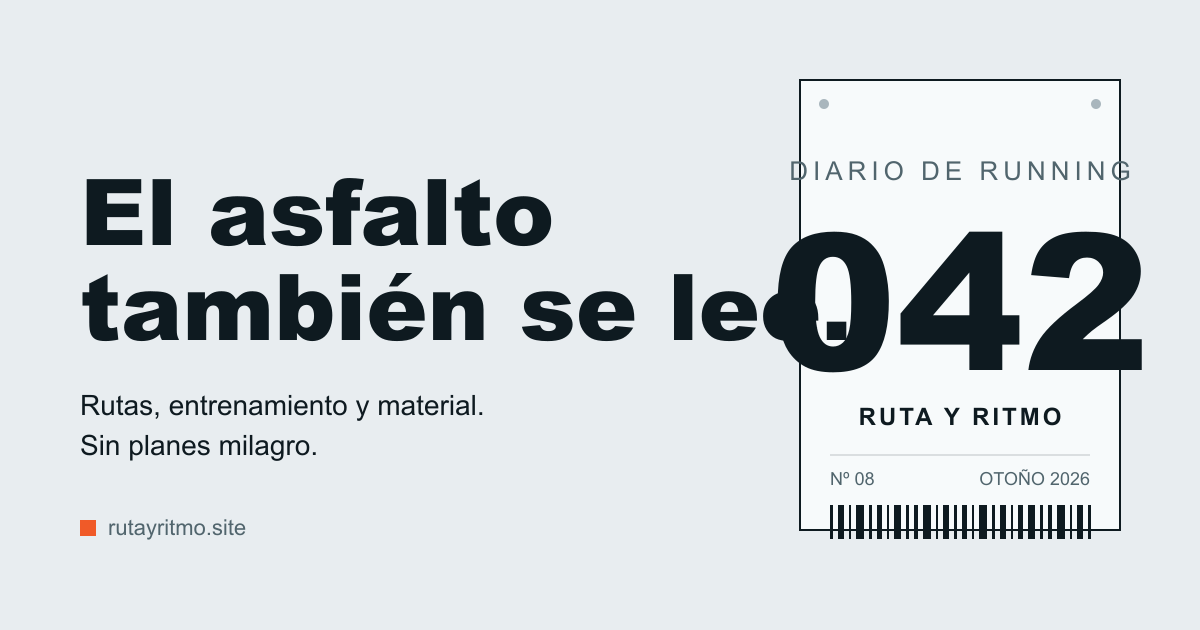
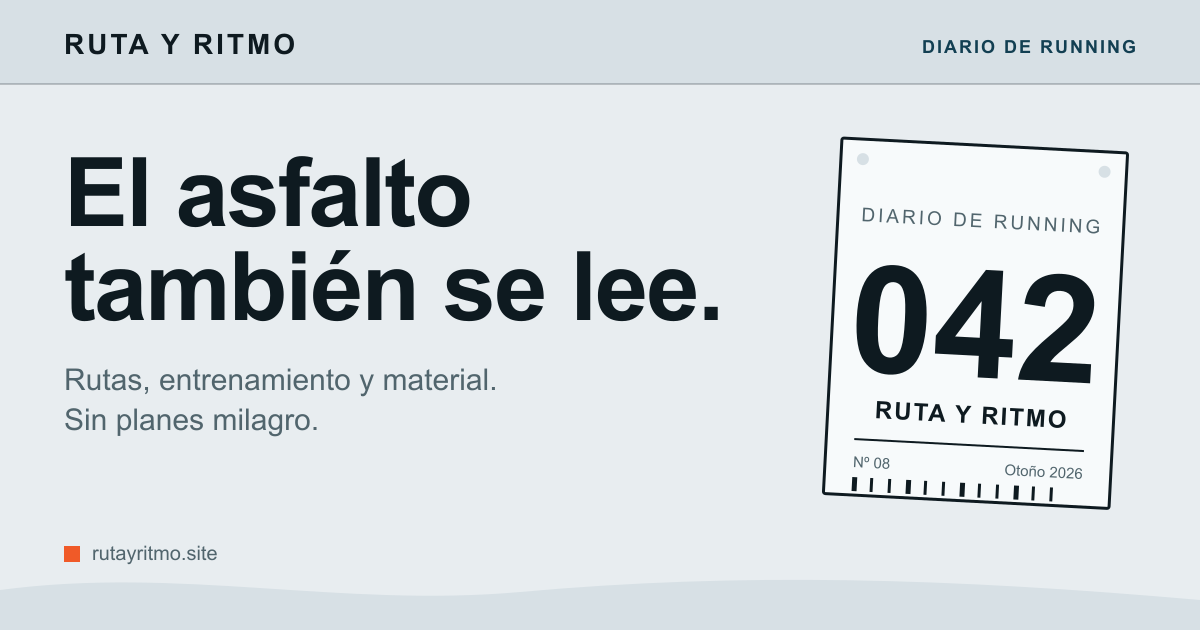
Fix bilingual 404, social cards and inline link spacing

diff --git a/src/pages/en/rss.xml.js b/src/pages/en/rss.xml.js
@@ -1,5 +1,6 @@
 import rss from '@astrojs/rss';
 import { getCollection } from 'astro:content';
+import { getCategoria } from '../../data/categorias';
 import { SITE } from '../../data/site';
 import { t } from '../../i18n/ui';
 
@@ -13,21 +14,21 @@ export async function GET(context) {
       description: entry.data.description,
       pubDate: entry.data.publishedAt,
       link: `/en/diario/${entry.id}/`,
-      categories: [entry.data.category],
+      categories: [getCategoria(entry.data.category, 'en').name],
     })),
     ...rutas.map((entry) => ({
       title: entry.data.title,
       description: entry.data.description,
       pubDate: entry.data.publishedAt,
       link: `/en/rutas/${entry.id}/`,
-      categories: ['rutas'],
+      categories: ['Routes'],
     })),
   ].sort((a, b) => b.pubDate.getTime() - a.pubDate.getTime());
 
   return rss({
     title: 'Ruta y Ritmo — Running journal',
     description: t('en', 'homeLede'),
-    site: context.site ?? SITE.url,
+    site: new URL('/en/', context.site ?? SITE.url).toString(),
     items,
     customData: '<language>en-us</language>',
   });

diff --git a/src/data/site.ts b/src/data/site.ts
@@ -1,8 +1,11 @@
 export const SITE = {
   name: 'Ruta y Ritmo',
   title: 'Ruta y Ritmo — Diario de running',
+  titleEn: 'Ruta y Ritmo — Running journal',
   description:
     'Rutas, entrenamiento y material para corredores populares. Ideas prácticas, fuentes a la vista y ningún plan milagro.',
+  descriptionEn:
+    'Routes, training and gear for everyday runners. Practical ideas, sources in plain sight and no miracle plans.',
   url: 'https://www.rutayritmo.site',
   locale: 'es_ES',
   language: 'es',

diff --git a/README.md b/README.md
@@ -27,6 +27,7 @@ npm run preview  # sirve dist/
 - Portadas en inglés: `public/images/articles/en/*.svg`.
 - Imágenes Open Graph: `public/images/og/*.png`.
 - Imágenes Open Graph en inglés: `public/images/og/en/*.png`.
+- Tarjetas sociales generales: `public/og-default.png` y `public/og-default-en.png`.
 
 Para añadir un artículo, crea un `.md` en `src/content/articulos/` y su versión inglesa en `src/content/articulos-en/` con el mismo nombre de archivo. El frontmatter que valida `src/content.config.ts` es:
 
@@ -57,9 +58,10 @@ El slug es el nombre del archivo. Los enlaces internos en español deben termina
 ## Imágenes
 
 ```bash
-npm run covers     # regenera las portadas SVG en español e inglés
-npm run og         # genera las imágenes Open Graph en español e inglés
-npm run en-assets  # regenera solo portadas y OG inglesas
+npm run covers      # regenera las portadas SVG en español e inglés
+npm run og          # genera las imágenes Open Graph en español e inglés
+npm run og-default  # regenera las tarjetas sociales generales
+npm run en-assets   # regenera solo portadas y OG inglesas
 ```
 
 Las imágenes sociales de cada artículo se guardan en `public/images/og/<slug>.png` y `public/images/og/en/<slug>.png`.
